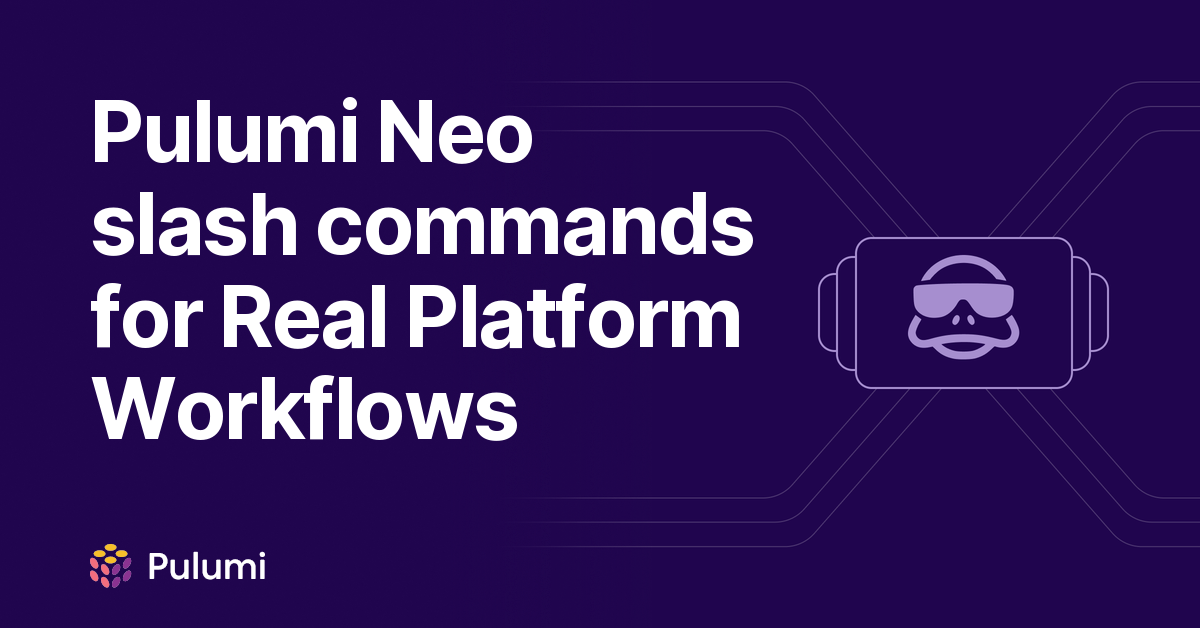
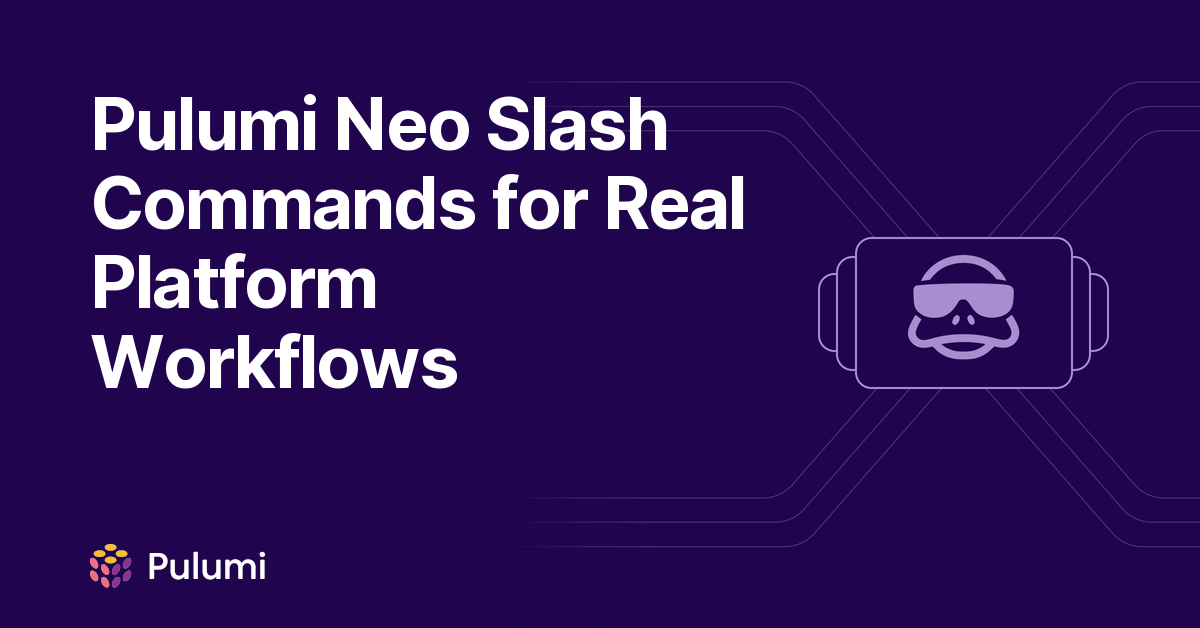
fix(blog): address Neo commands review feedback

Changed region(s): [[0.0617, 0.1513, 0.6475, 0.7261]]

diff --git a/content/blog/neo-slash-commands-cookbook-for-platform-teams/index.md b/content/blog/neo-slash-commands-cookbook-for-platform-teams/index.md
@@ -1,5 +1,5 @@
 ---
-title: "Pulumi Neo slash commands for Real Platform Workflows"
+title: "Pulumi Neo Slash Commands for Real Platform Workflows"
 date: 2026-07-14
 meta_desc: "Use Pulumi Neo slash commands and operating modes for practical platform workflows such as base image refreshes, drift cleanup, and reviewed automation."
 meta_image: meta.png
@@ -27,9 +27,7 @@ social:
 
 Platform engineering teams often find themselves caught between two worlds: the need for high-velocity infrastructure changes and the reality of manual SRE toil. Tasks like upgrading runtimes, refreshing AMIs for security compliance, and cleaning up drift are essential but repetitive. [Pulumi Neo](/product/neo/) closes this gap by turning these workflows into interactive, AI-assisted experiences.
 
-By combining slash commands with operating modes, you can encode your team's best practices into shortcuts that anyone can execute safely. This cookbook provides six practical recipes for common platform tasks.
-
-This post provides a platform team command cookbook tied to real operational toil, demonstrating how to automate repetitive tasks while keeping humans in control. By the end, you will have a set of Neo slash commands for common SRE tasks like runtime upgrades and drift cleanup.
+By combining slash commands with operating modes, you can encode your team's best practices into shortcuts the team can run with predictable guardrails. By the end, you will have a set of Neo slash commands for common SRE tasks like runtime upgrades and drift cleanup.
 
 <!--more-->
 
@@ -37,40 +35,48 @@ This post provides a platform team command cookbook tied to real operational toi
 
 Slash commands in Neo are more than just shortcuts. They are pre-configured prompts that capture the context, constraints, and expected outcomes of a specific task. When paired with operating modes, they allow you to delegate the heavy lifting to Neo while maintaining the exact level of oversight your organization requires.
 
-## Recipe 1: /upgrade-runtime
+## Upgrade runtimes
+
+**Slash command**: `/upgrade-runtime`
 
 Upgrading Lambda runtimes or container base images across a stack fleet is a classic example of toil.
 
 **Intent**: Identify and upgrade outdated runtimes to the latest supported versions.
 
-**Slash Command Body**:
+**Slash command body**:
 > "Scan all stacks in the current project for AWS Lambda resources using Node.js 16 or 18. Draft a change to upgrade them to Node.js 20, ensuring that any associated environment variables or layers remain compatible. Prepare a reviewed workflow for the update."
 
 **Expected output**: Neo identifies the affected resources, modifies the Pulumi code, and presents a preview of the changes for approval.
 
-## Recipe 2: /refresh-base-image
+## Refresh base images
+
+**Slash command**: `/refresh-base-image`
 
 Security vulnerabilities often require immediate base-image refreshes across compute platforms. This recipe standardizes the response pattern so teams can update AMIs, container images, or VM images without hardcoding a one-time image ID into the slash command.
 
 **Intent**: Identify resources using an outdated approved image family and move them to the current approved image for that environment.
 
-**Slash Command Body**:
-> "Find compute resources using the previous approved base image for the current environment. Resolve the latest approved image from our image catalog, draft the code changes, and include rollout notes for instances, Auto Scaling Groups, and container workloads. Prepare a reviewed workflow."
+**Slash command body**:
+> "Find compute resources using the previous approved base image for the current environment. Resolve the latest approved image from our ESC environment value `baseImages.current`, draft the code changes, and include rollout notes for instances, Auto Scaling Groups, and container workloads. Prepare a reviewed workflow."
 
 **Expected output**: Neo prepares reusable code changes and a deployment plan that respects your availability constraints.
 
-## Recipe 3: /cleanup-drift
+## Clean up drift
+
+**Slash command**: `/cleanup-drift`
 
 Infrastructure drift is inevitable, but managing it shouldn't be a full-time job.
 
 **Intent**: Detect resources that have diverged from their defined state and bring them back into alignment.
 
-**Slash Command Body**:
+**Slash command body**:
 > "Run a refresh on the current stack to detect drift. For any resources where the live state differs from the Pulumi state, draft a plan to remediate the drift. If the change was intentional, suggest the code updates to match the live state."
 
 **Expected output**: A detailed report of drifted resources and a guided workflow to either revert the changes or update the code.
 
-## Recipe 4: /rotate-stack-secrets
+## Rotate stack secrets
+
+**Slash command**: `/rotate-stack-secrets`
 
 Managing secret rotation across multiple environments is high-stakes and error-prone.
 
@@ -78,39 +84,44 @@ For stack secrets stored in [Pulumi Cloud](/product/pulumi-cloud/), Neo can help
 
 **Intent**: Rotate specific stack secrets and update the associated resources.
 
-**Slash Command Body**:
-> "Identify all resources using the 'DB_PASSWORD' secret. Generate a new random password, update the secret in Pulumi Cloud, and draft the necessary changes to update the resources using it. Prepare a reviewed workflow."
+**Slash command body**:
+> "Identify all resources using the 'dbPassword' stack config key. Generate a new random password, update the secret in Pulumi Cloud, and draft the necessary changes to update the resources using it. Prepare a reviewed workflow."
 
 **Expected output**: Neo helps draft the rotation plan and reviewed code changes to update the infrastructure.
 
-## Recipe 5: /bump-dependencies
+## Bump provider dependencies
+
+**Slash command**: `/bump-dependencies`
 
 Keeping your Pulumi programs up to date with the latest provider versions ensures you have access to new features and security fixes.
 
 **Intent**: Update Pulumi provider packages and resolve any breaking changes.
 
-**Slash Command Body**:
+**Slash command body**:
 > "Check for updates to the 'pulumi-aws' and 'pulumi-kubernetes' packages. Update them to the latest minor versions in the package.json or requirements.txt. Run a preview to ensure no breaking changes were introduced."
 
 **Expected output**: Updated dependency files and a clean preview confirming compatibility.
 
-## Recipe 6: /rename-stack
+## Rename stacks
+
+**Slash command**: `/rename-stack`
 
 Refactoring stack names or moving resources between stacks can be complex due to state dependencies.
 
-**Intent**: Safely rename a stack or migrate resources while preserving state.
+**Intent**: Safely rename a stack while preserving state and updating dependents.
 
-**Slash Command Body**:
-> "I need to rename the 'staging-old' stack to 'staging-new'. Draft a plan that includes creating the new stack, importing the existing state, and updating any stack references in other projects. Prepare a reviewed workflow."
+**Slash command body**:
+> "I need to rename the 'staging-old' stack to 'staging-new'. Draft a plan that uses pulumi stack rename, updates any StackReference callers in dependent projects, and calls out backend-specific checks before the reviewed workflow runs."
 
-**Expected output**: A step-by-step migration plan that Neo assists in executing, ensuring no data loss or downtime.
+**Expected output**: A step-by-step rename plan that preserves state in place, updates dependencies, and avoids an unnecessary import cycle.
 
 ## Operating modes and safety
 
-The power of these recipes comes from how you run them. Neo's operating modes provide a safety net for platform teams:
+The power of these recipes comes from how you run them. Neo's operating modes and permissions settings provide a safety net for platform teams:
 
-1. **Read-only Mode**: Perfect for exploration. Neo can analyze your infrastructure, run previews, and prepare reviewed change sets, but it cannot modify your live environment. Use this when you want Neo to do the research and drafting without any risk of accidental mutation.
-2. **Review Mode**: Neo proposes a plan and waits for your explicit approval at every step. This is the recommended mode for most of the recipes above, especially those involving production infrastructure.
-3. **Balanced Mode**: Neo handles routine operations within review gates but stops for your approval on any destructive changes (updates or destroys).
+1. **Review mode**: Neo requests approval for previews, updates, and pull requests. This is the default mode and the safest fit for production workflows.
+1. **Balanced mode**: Neo can perform routine work but requests approval before `pulumi up`.
+1. **Auto mode**: Neo runs without approval prompts, which is best reserved for tightly scoped non-production workflows.
+1. **Read-only permissions**: Read-only access is a permissions setting, not an operating mode. Use it for exploration workflows where Neo should analyze infrastructure and draft changes without mutating live environments. See [Neo read-only mode](/blog/neo-read-only-mode/) for details.
 
 By combining these modes with custom slash commands, you give platform teams a faster way to draft, review, and apply infrastructure changes under your standards and controls.
